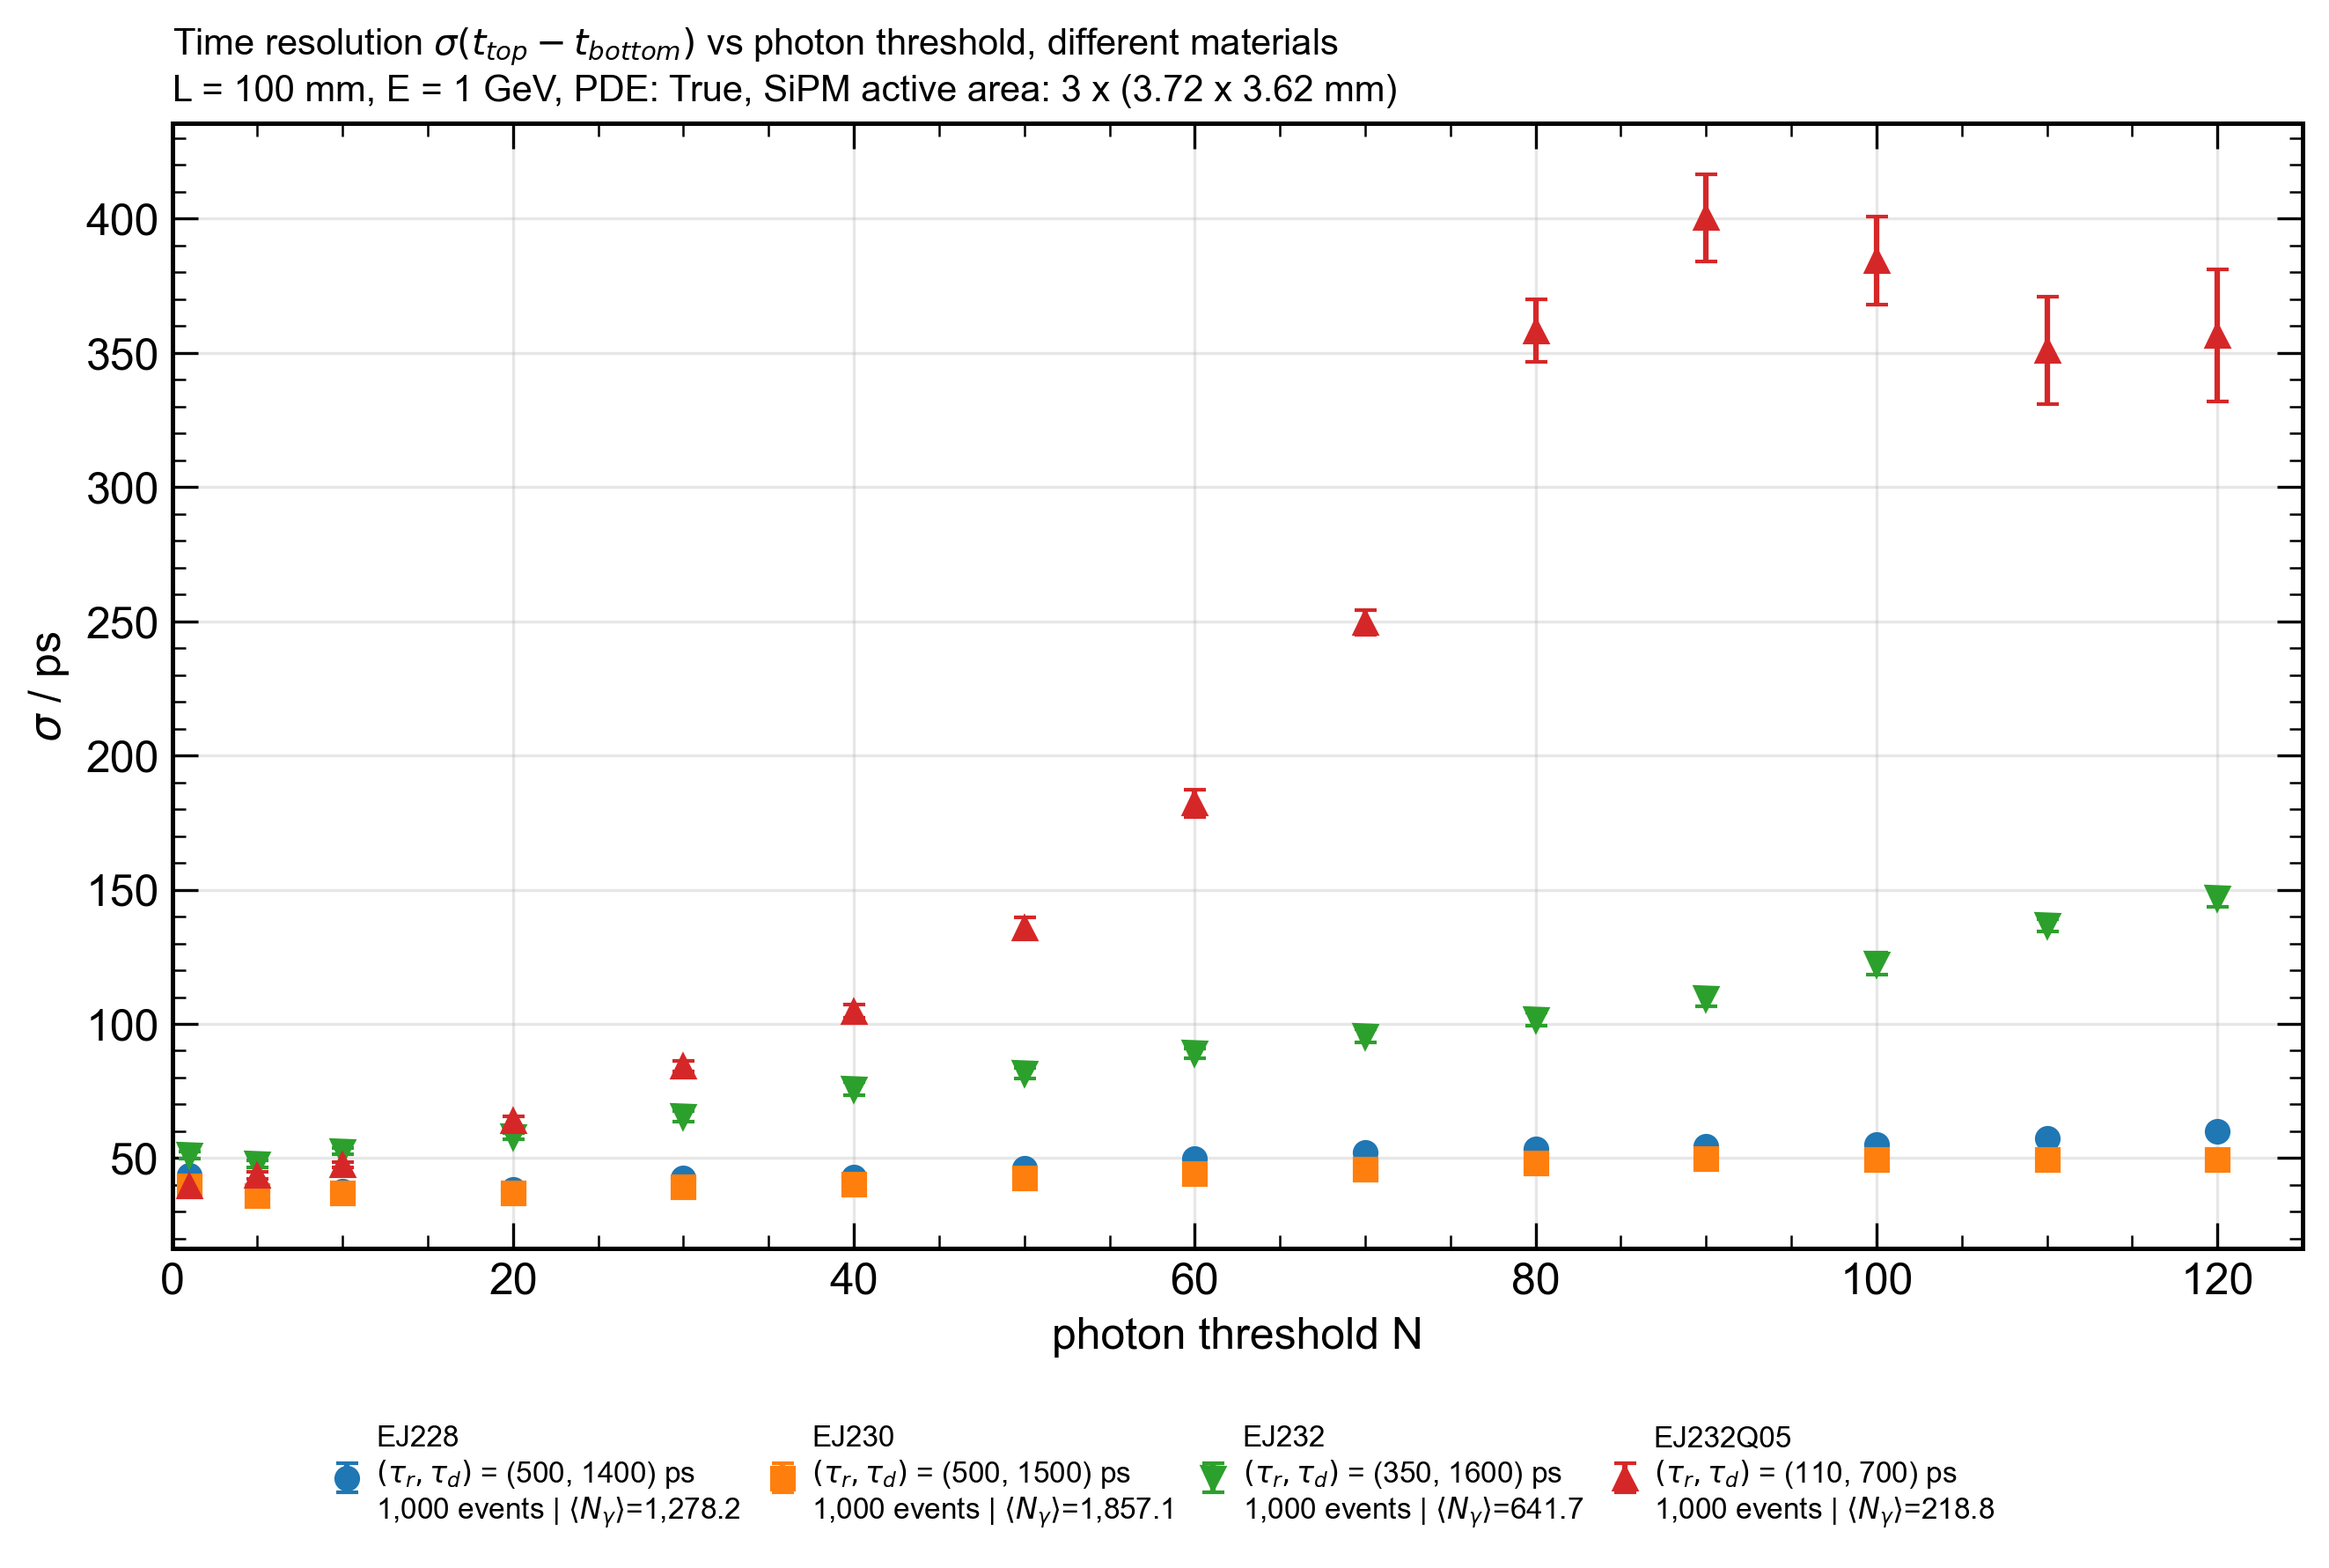
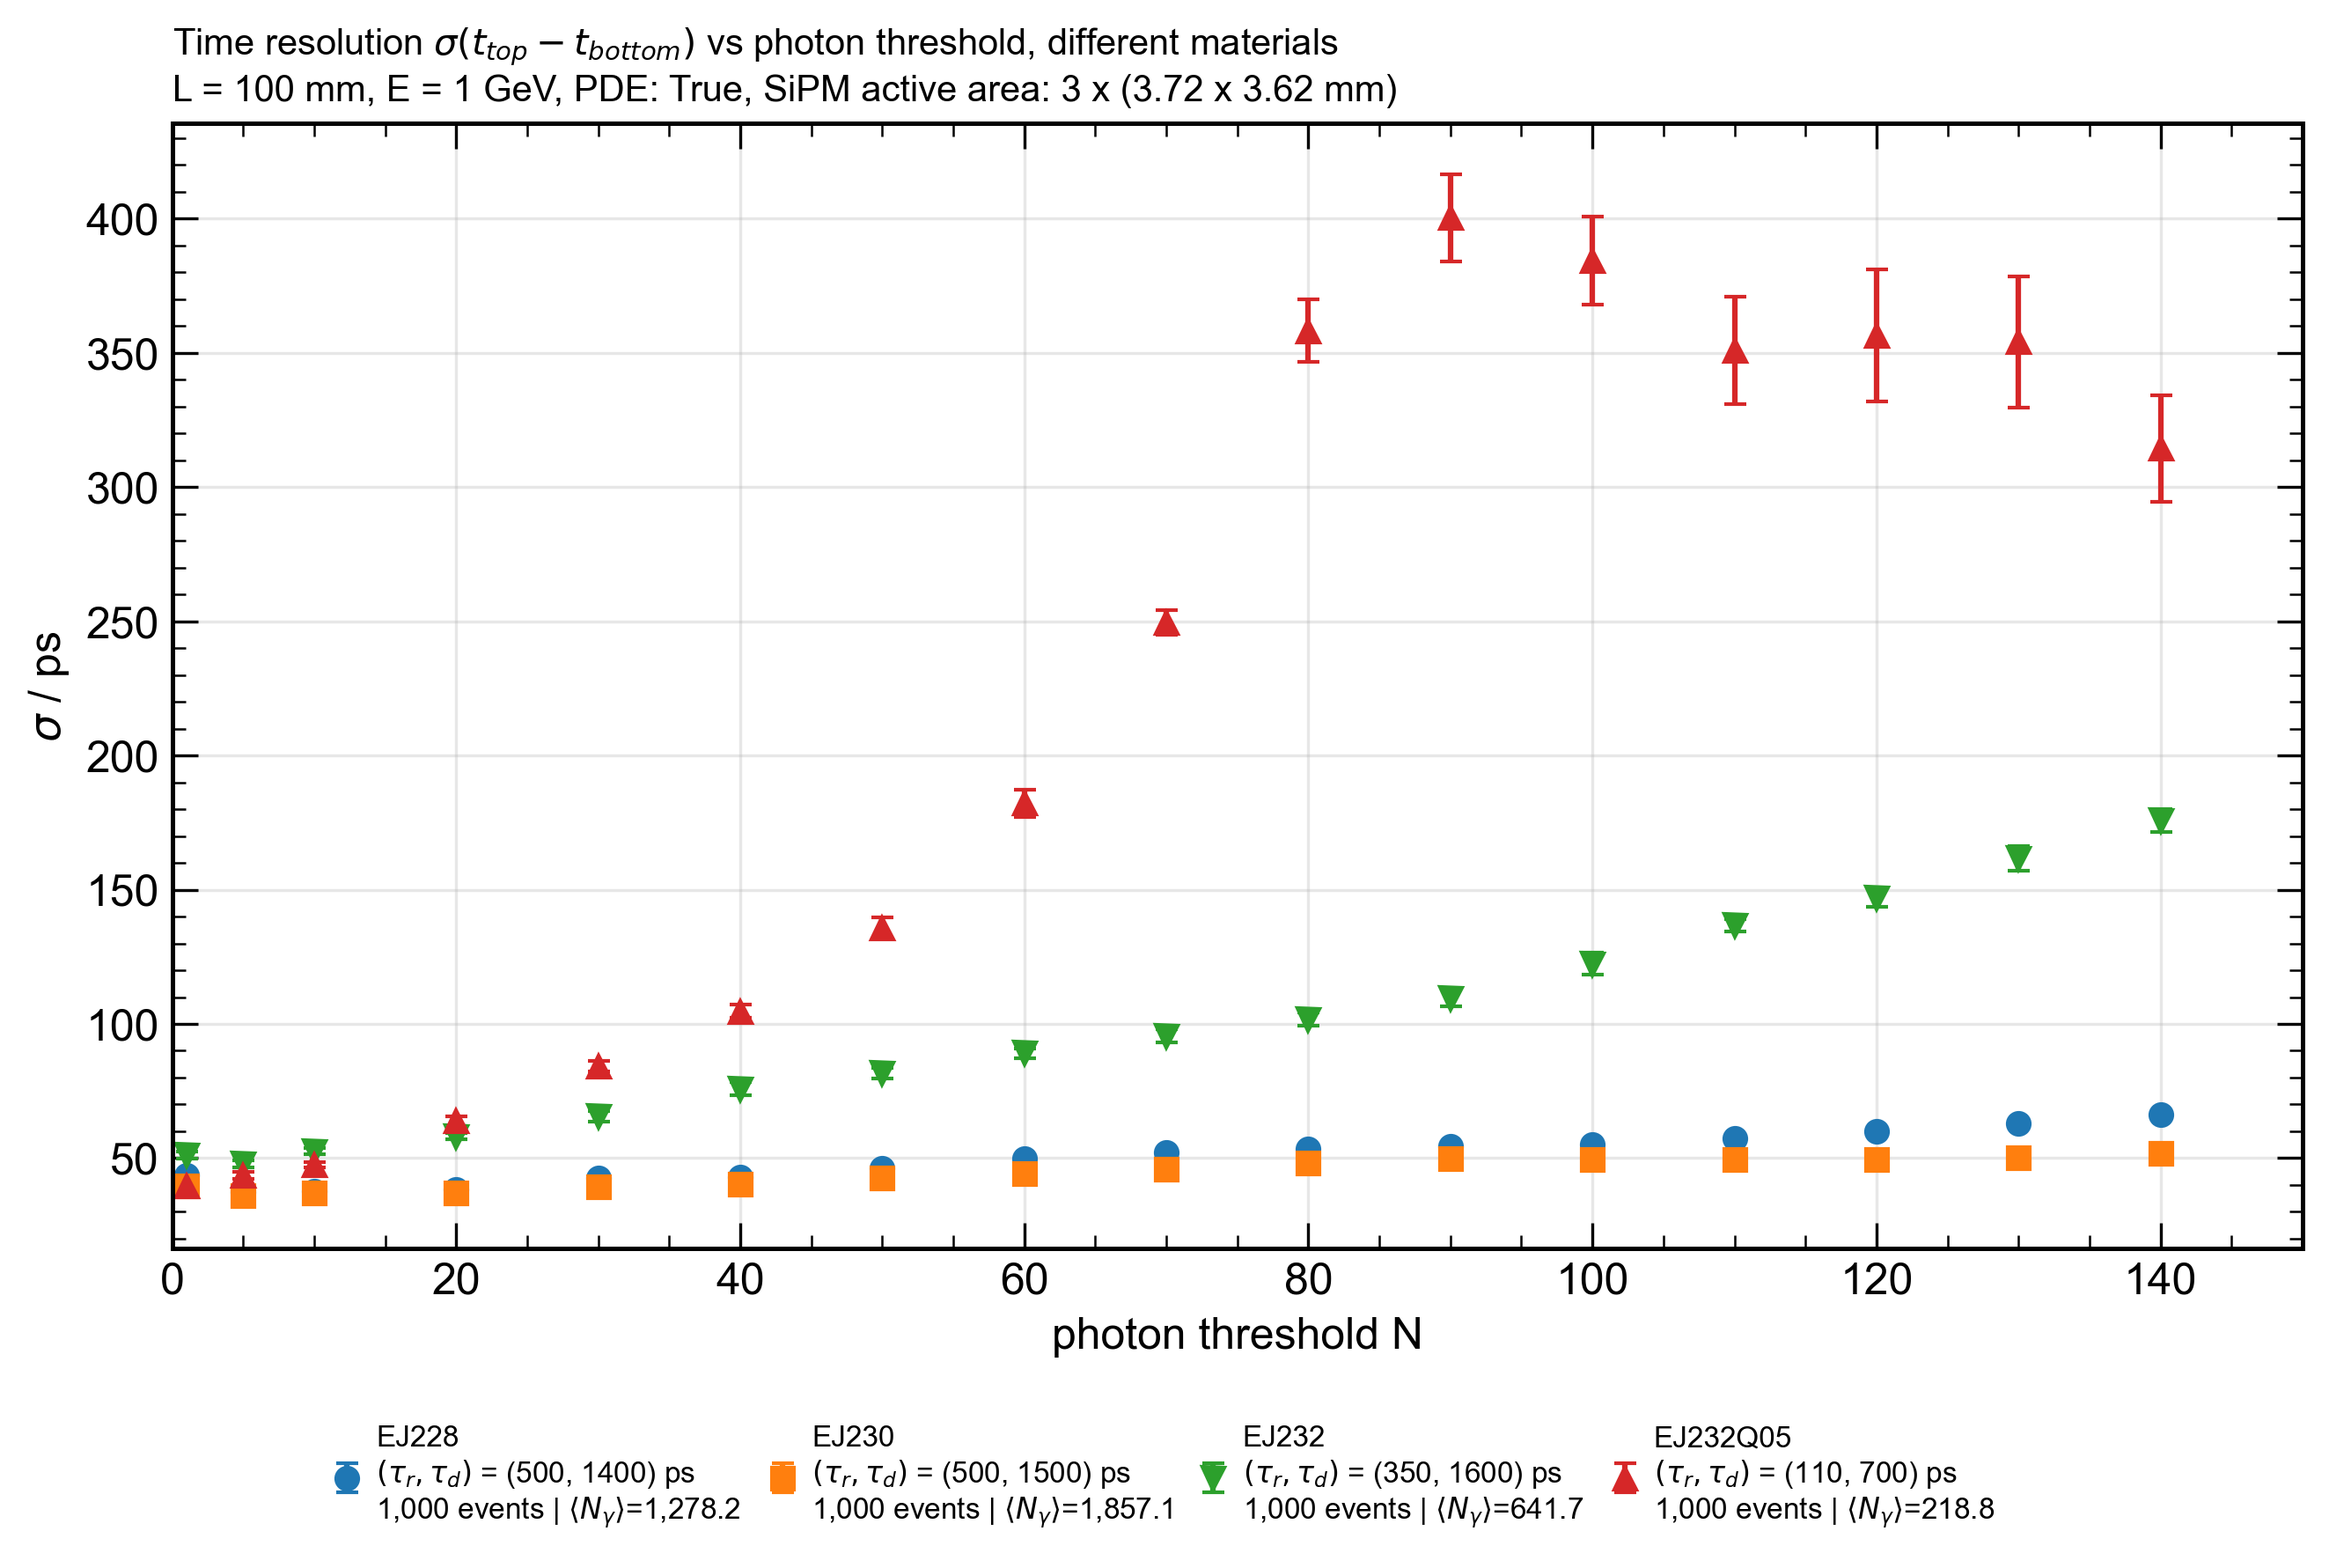
new plots

diff --git a/threshold/compare_materials_energies.py b/threshold/compare_materials_energies.py
@@ -22,7 +22,7 @@ ABSOLUTE_PHOTON_THRESHOLDS = [1, 5] + list(range(10, 141, 10))
 CUMULATIVE_PHOTON_THRESHOLDS = [1, 5] + list(range(10, 301, 10))
 
 # Bereich der x-Achse (photon threshold N) in den Plots
-THRESHOLD_PLOT_RANGE = (0, 125)
+THRESHOLD_PLOT_RANGE = (0, 150)
 
 # Bereich der x- und y-Achse (relative brightness / %) in den Plots
 RELATIVE_PLOT_RANGE = {
